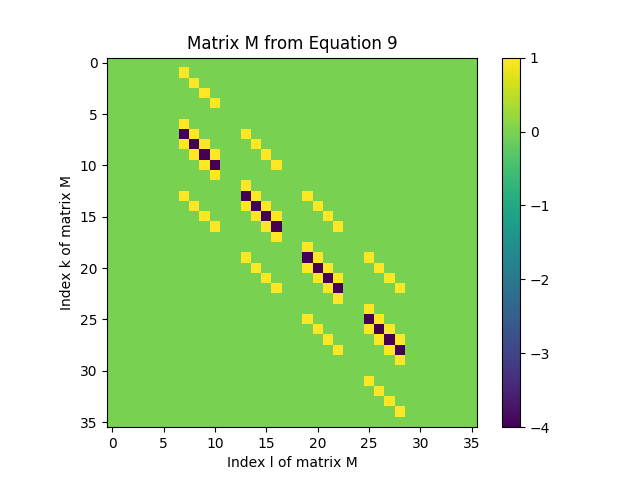
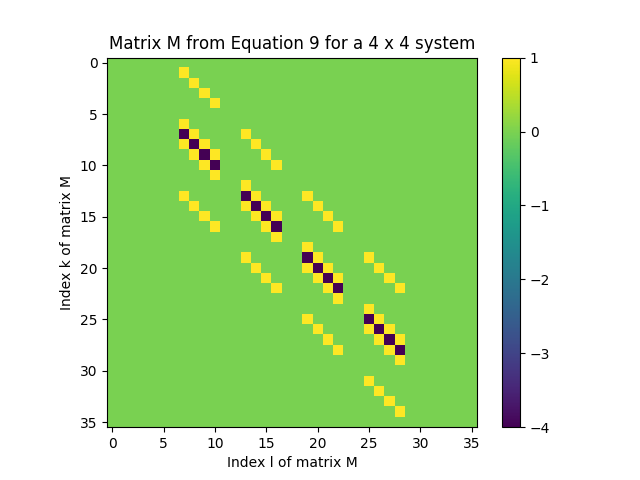
hi

Changed region(s): [[0.1562, 0.0625, 0.75, 0.125]]

diff --git a/set3/set3a.py b/set3/set3a.py
@@ -46,7 +46,7 @@ def circleBoundary(i, j, Ni, Nj):
 def plotMatrixM(M, Ni, Nj, fstart="", show=True, save=True):
     """Plot the given matrix M using plt.imshow."""
     plt.imshow(M.T)
-    plt.title("Matrix M from Equation 9")
+    plt.title("Matrix M from Equation 9 for a {} x {} system".format(Ni, Nj))
     plt.ylabel("Index k of matrix M")
     plt.xlabel("Index l of matrix M")
     plt.colorbar()
